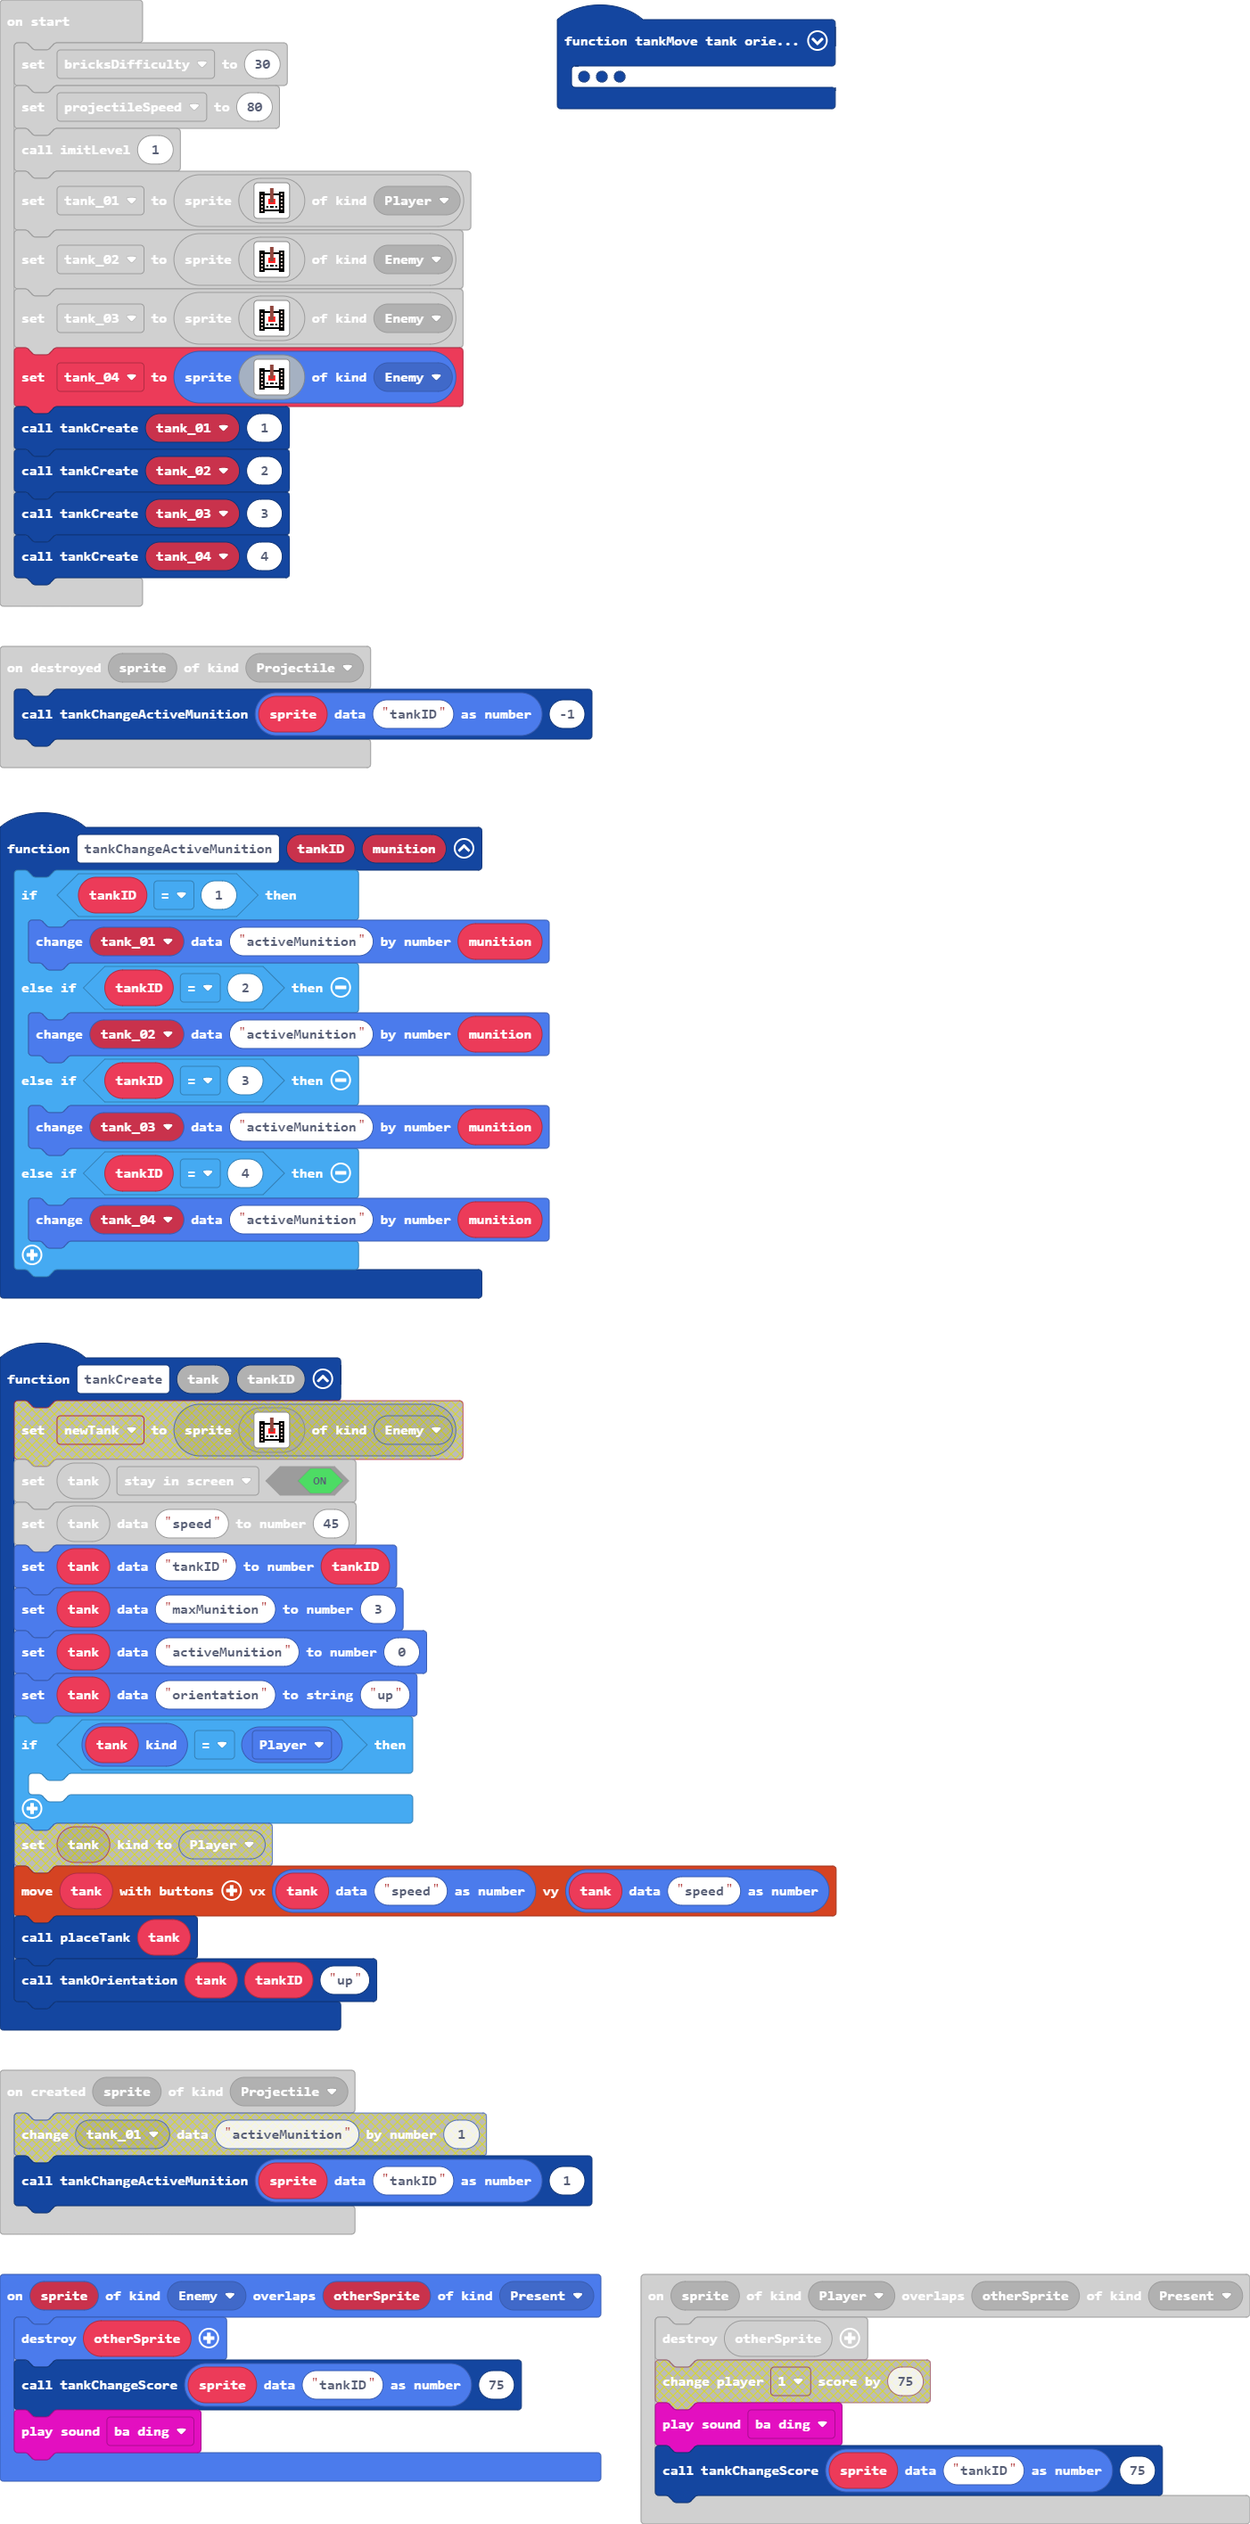
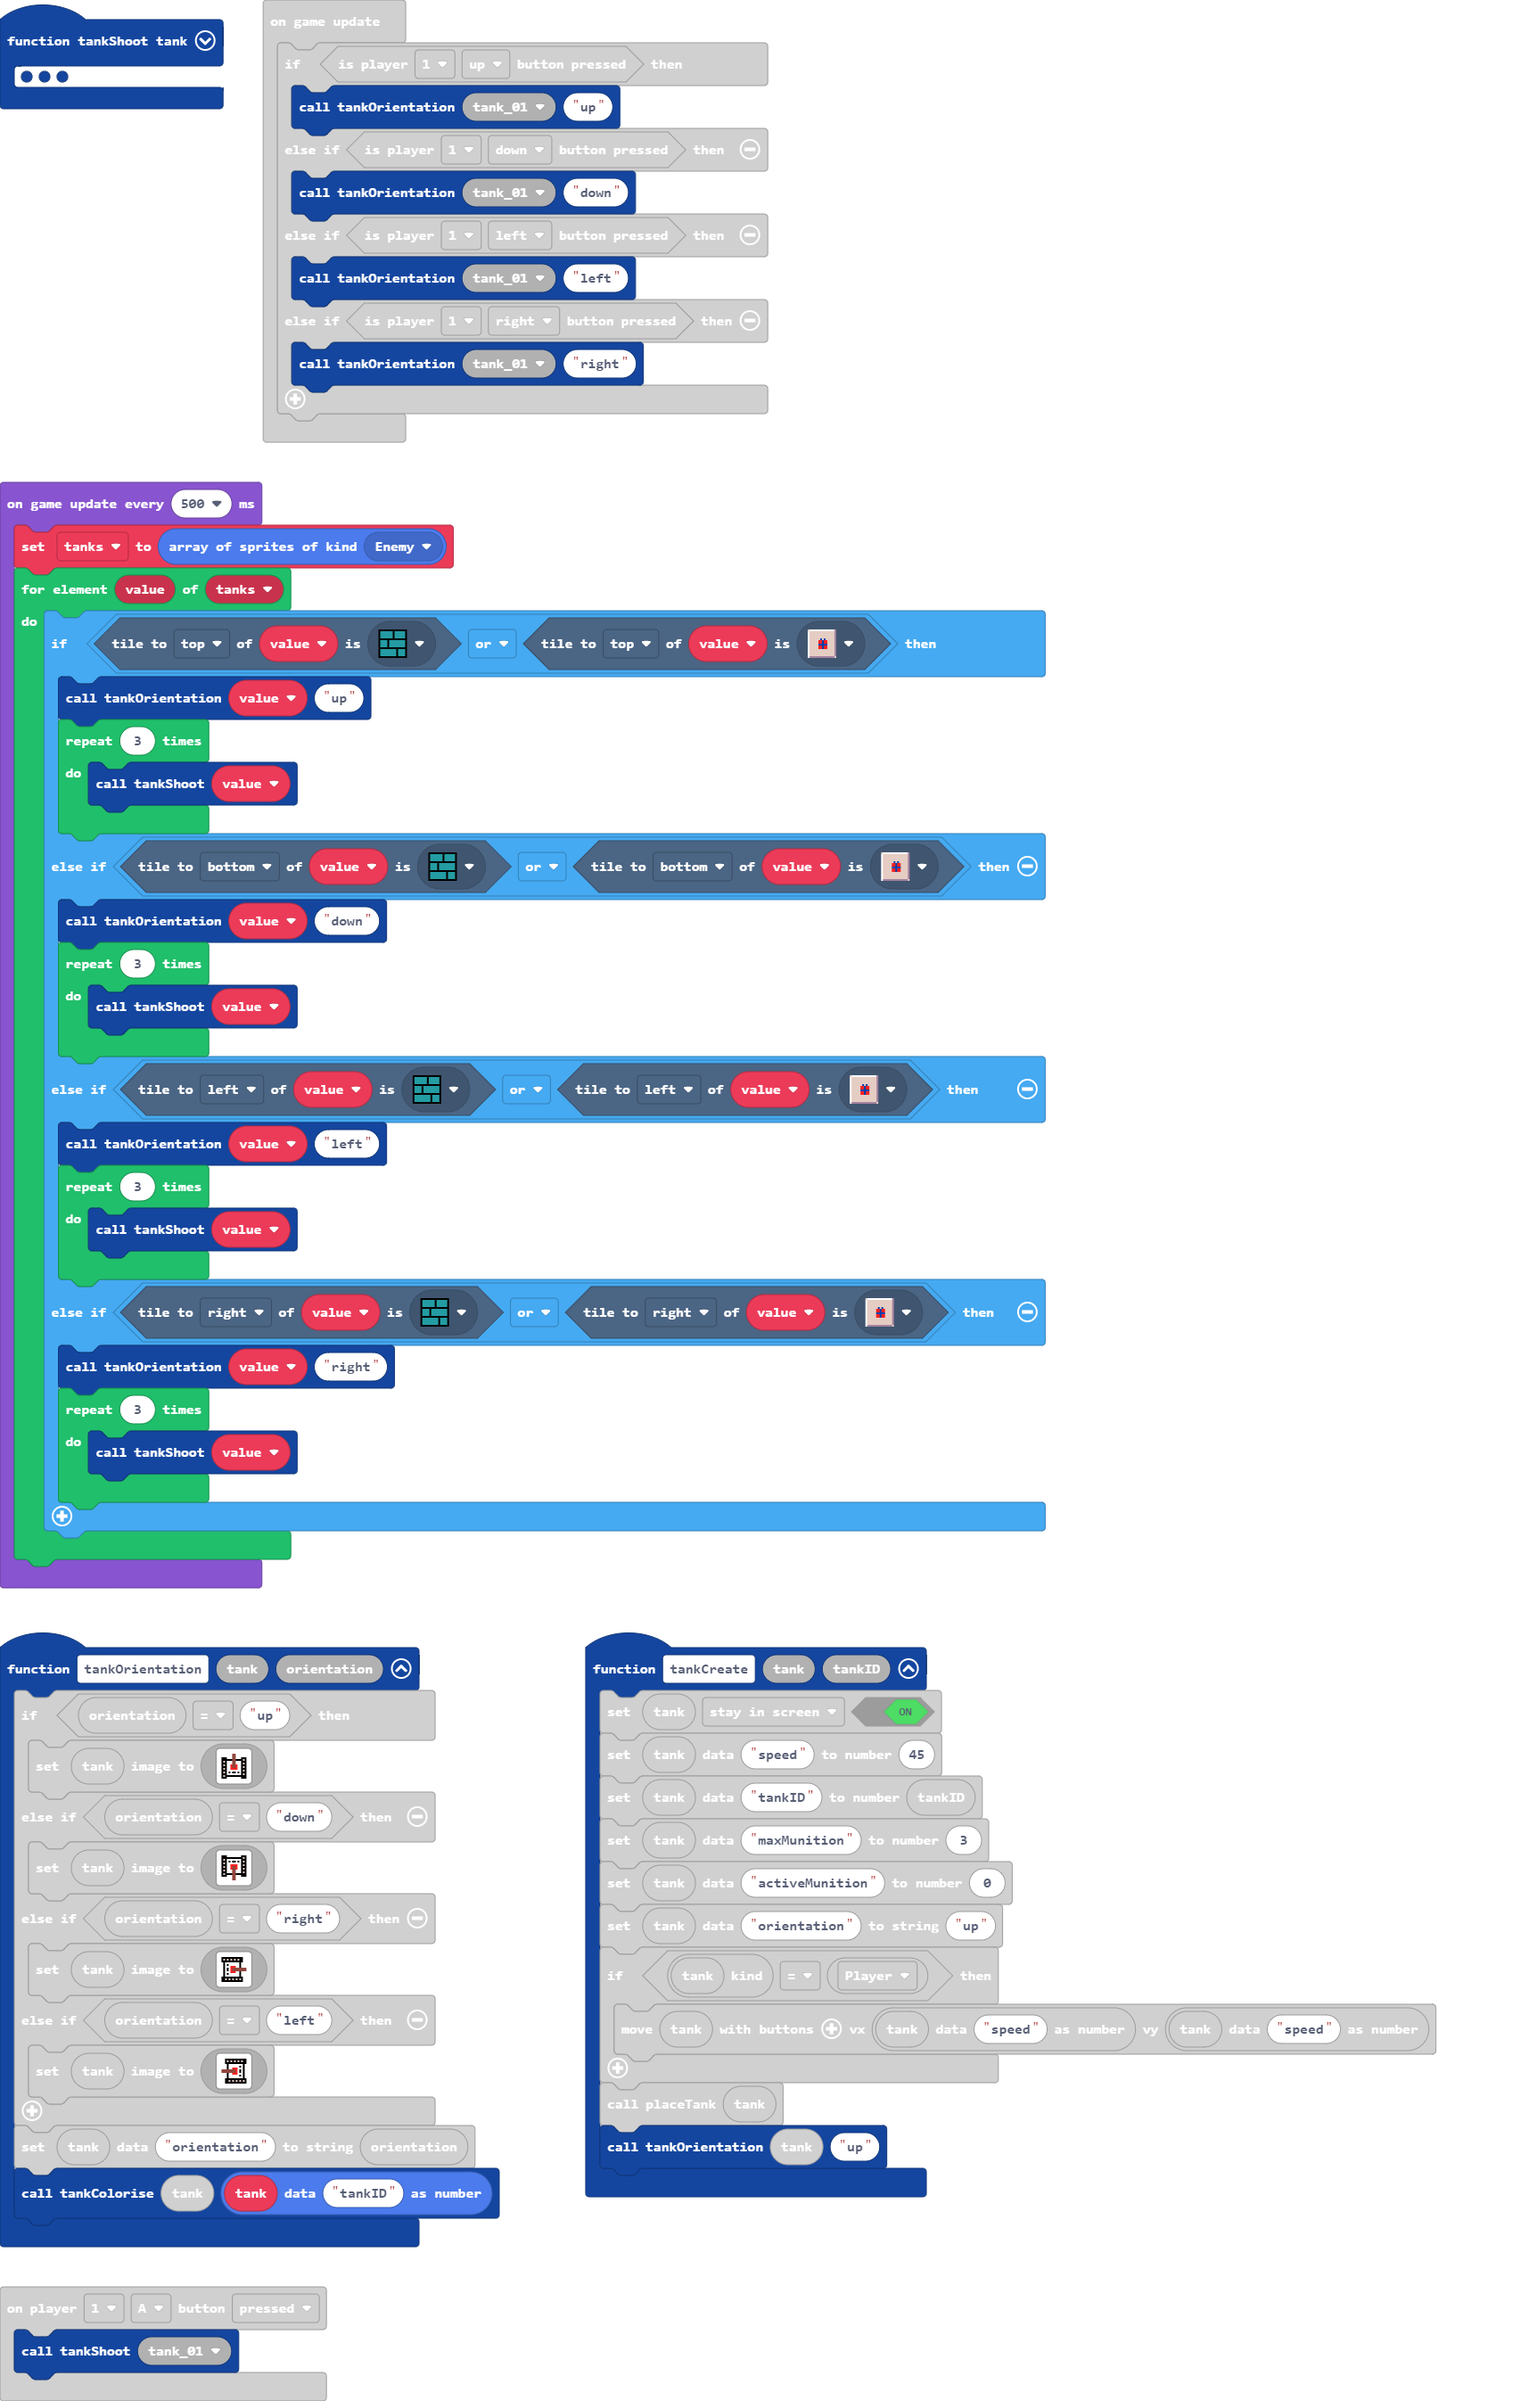
I almost finished AI

diff --git a/main.ts b/main.ts
@@ -13,7 +13,7 @@ function tankChangeActiveMunition (tankID: number, munition: number) {
         sprites.changeDataNumberBy(tank_04, "activeMunition", munition)
     }
 }
-function tankOrientation (tank: Sprite, tankID: number, orientation: string) {
+function tankOrientation (tank: Sprite, orientation: string) {
     if (orientation == "up") {
         tank.setImage(img`
             . . . . . . . . . . . . . . . . 
@@ -92,7 +92,7 @@ function tankOrientation (tank: Sprite, tankID: number, orientation: string) {
             `)
     }
     sprites.setDataString(tank, "orientation", orientation)
-    tankColorise(tank, tankID)
+    tankColorise(tank, sprites.readDataNumber(tank, "tankID"))
 }
 function tankChangeScore (tankID: number, score: number) {
     if (tankID == 1) {
@@ -161,7 +161,7 @@ function placeTank (tank: Sprite) {
     tiles.placeOnTile(tank, randomStartLocation)
     tiles.setTileAt(randomStartLocation, myTiles.tile5)
 }
-function tankShoot (tank: Sprite, tankID: number) {
+function tankShoot (tank: Sprite) {
     if (sprites.readDataNumber(tank, "activeMunition") < sprites.readDataNumber(tank, "maxMunition")) {
         music.pewPew.play()
         projectile = sprites.create(img`
@@ -169,7 +169,7 @@ function tankShoot (tank: Sprite, tankID: number) {
             f 2 
             `, SpriteKind.Projectile)
         projectile.setPosition(tank.x, tank.y)
-        sprites.setDataNumber(projectile, "tankID", tankID)
+        sprites.setDataNumber(projectile, "tankID", sprites.readDataNumber(tank, "tankID"))
         if (sprites.readDataString(tank, "orientation") == "up") {
             projectile.setPosition(tank.x, tank.y - 7)
             projectile.setVelocity(0, projectileSpeed * -1)
@@ -196,7 +196,7 @@ function tankCreate (tank: Sprite, tankID: number) {
         controller.moveSprite(tank, sprites.readDataNumber(tank, "speed"), sprites.readDataNumber(tank, "speed"))
     }
     placeTank(tank)
-    tankOrientation(tank, tankID, "up")
+    tankOrientation(tank, "up")
 }
 sprites.onOverlap(SpriteKind.Enemy, SpriteKind.Present, function (sprite, otherSprite) {
     otherSprite.destroy()
@@ -209,7 +209,7 @@ sprites.onOverlap(SpriteKind.Player, SpriteKind.Present, function (sprite, other
     music.baDing.play()
 })
 controller.player1.onButtonEvent(ControllerButton.A, ControllerButtonEvent.Pressed, function () {
-    tankShoot(tank_01, 1)
+    tankShoot(tank_01)
 })
 function createRandomWalls () {
     wallLocationLIist = tiles.getTilesByType(sprites.castle.tilePath5)
@@ -266,6 +266,7 @@ sprites.onOverlap(SpriteKind.Projectile, SpriteKind.Wall, function (sprite, othe
 sprites.onDestroyed(SpriteKind.Projectile, function (sprite) {
     tankChangeActiveMunition(sprites.readDataNumber(sprite, "tankID"), -1)
 })
+let tanks: Sprite[] = []
 let sprPresent: Sprite = null
 let randomPresent = 0
 let randomLocation: tiles.Location = null
@@ -360,12 +361,38 @@ tankCreate(tank_03, 3)
 tankCreate(tank_04, 4)
 game.onUpdate(function () {
     if (controller.player1.isPressed(ControllerButton.Up)) {
-        tankOrientation(tank_01, 1, "up")
+        tankOrientation(tank_01, "up")
     } else if (controller.player1.isPressed(ControllerButton.Down)) {
-        tankOrientation(tank_01, 1, "down")
+        tankOrientation(tank_01, "down")
     } else if (controller.player1.isPressed(ControllerButton.Left)) {
-        tankOrientation(tank_01, 1, "left")
+        tankOrientation(tank_01, "left")
     } else if (controller.player1.isPressed(ControllerButton.Right)) {
-        tankOrientation(tank_01, 1, "right")
+        tankOrientation(tank_01, "right")
+    }
+})
+game.onUpdateInterval(500, function () {
+    tanks = sprites.allOfKind(SpriteKind.Enemy)
+    for (let value of tanks) {
+        if (value.tileKindAt(TileDirection.Top, myTiles.tile1) || value.tileKindAt(TileDirection.Top, myTiles.tile4)) {
+            tankOrientation(value, "up")
+            for (let index = 0; index < 3; index++) {
+                tankShoot(value)
+            }
+        } else if (value.tileKindAt(TileDirection.Bottom, myTiles.tile1) || value.tileKindAt(TileDirection.Bottom, myTiles.tile4)) {
+            tankOrientation(value, "down")
+            for (let index = 0; index < 3; index++) {
+                tankShoot(value)
+            }
+        } else if (value.tileKindAt(TileDirection.Left, myTiles.tile1) || value.tileKindAt(TileDirection.Left, myTiles.tile4)) {
+            tankOrientation(value, "left")
+            for (let index = 0; index < 3; index++) {
+                tankShoot(value)
+            }
+        } else if (value.tileKindAt(TileDirection.Right, myTiles.tile1) || value.tileKindAt(TileDirection.Right, myTiles.tile4)) {
+            tankOrientation(value, "right")
+            for (let index = 0; index < 3; index++) {
+                tankShoot(value)
+            }
+        }
     }
 })
